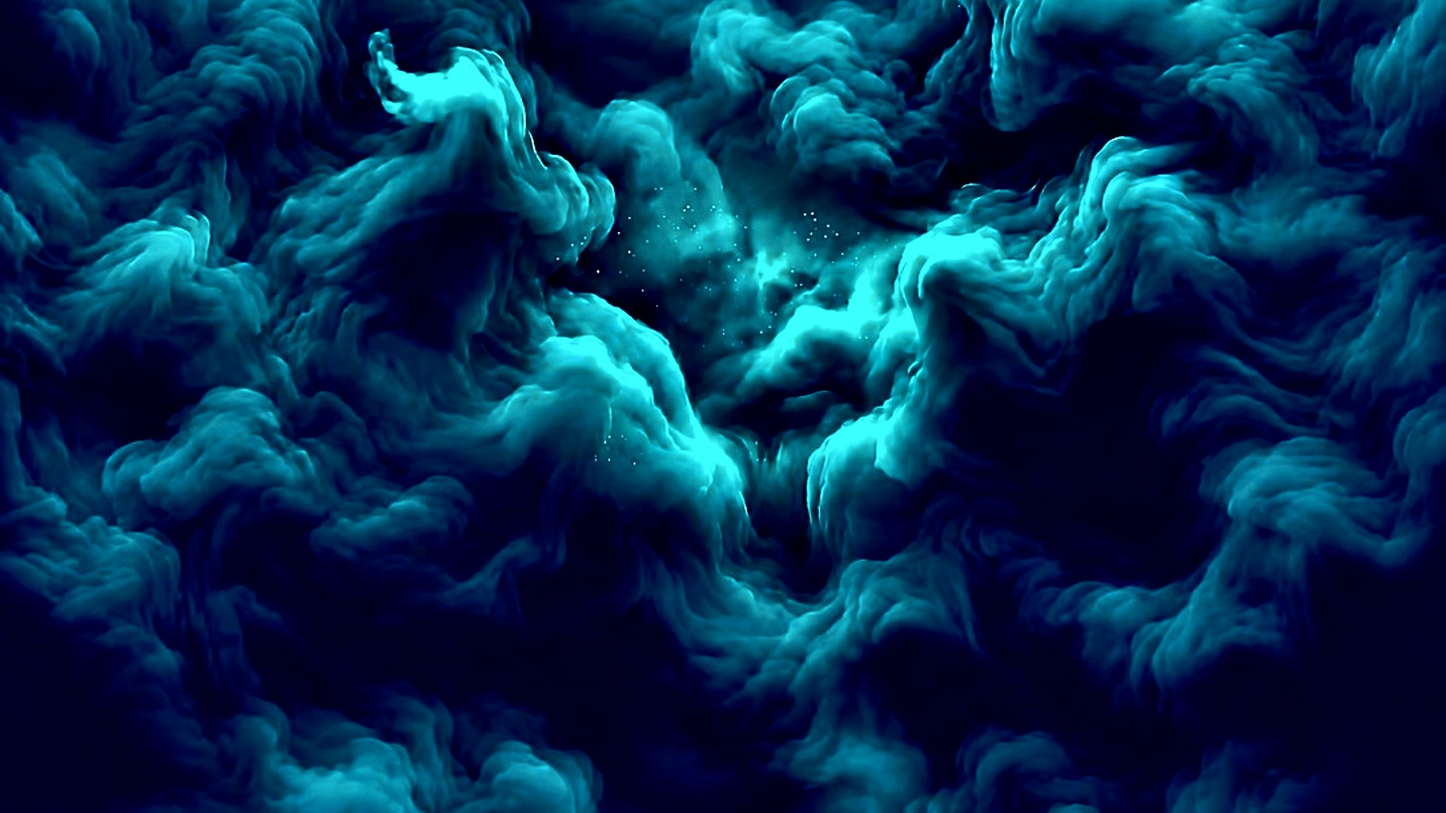
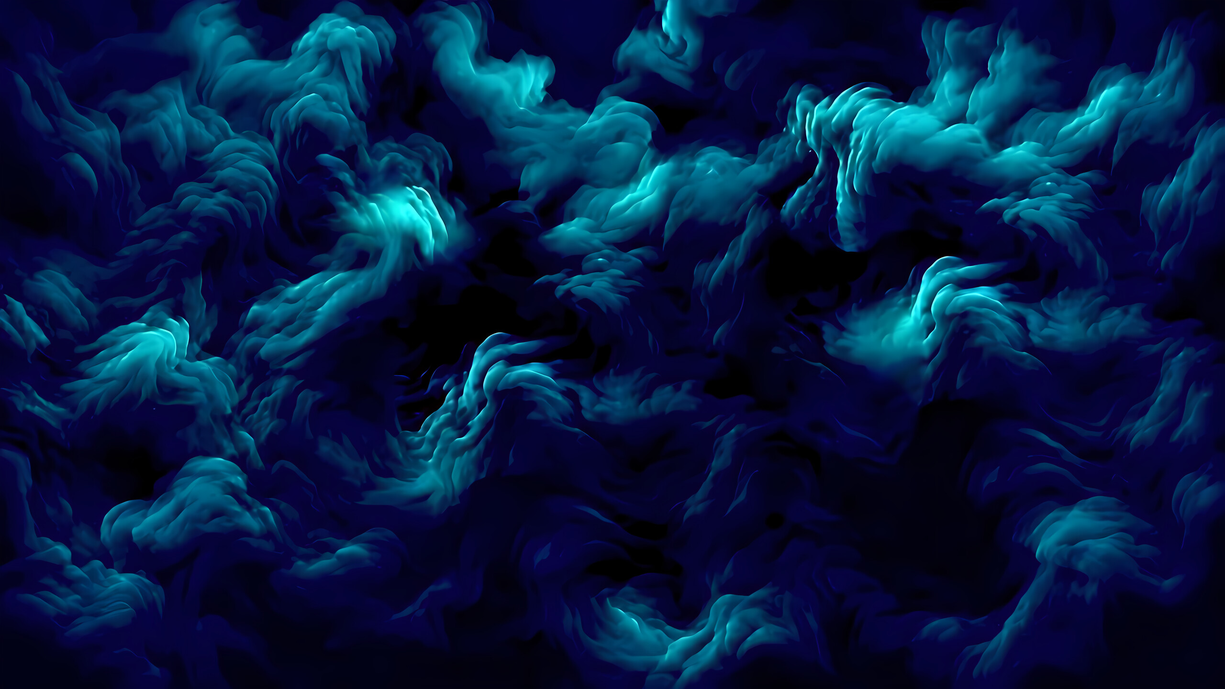
Update background artwork and adjust site colors to match
Replaces the landing page background image with a higher-resolution version and updates CSS to match the new artwork's color palette, ensuring visual consistency across the site.

Replit-Commit-Author: Agent
Replit-Commit-Session-Id: c1303a7e-4185-4363-903e-8b8e6f747106
Replit-Commit-Checkpoint-Type: full_checkpoint
Replit-Commit-Event-Id: 72a73a4c-71cc-43bb-b2eb-d19465b1af5a
Replit-Commit-Screenshot-Url: https://storage.googleapis.com/screenshot-production-us-central1/d3876158-494b-4e7b-a77f-48830782ce72/c1303a7e-4185-4363-903e-8b8e6f747106/mXom65L
Replit-Helium-Checkpoint-Created: true

diff --git a/artifacts/neuronotes/src/index.css b/artifacts/neuronotes/src/index.css
@@ -515,7 +515,7 @@
        propagation, so body's background paints in normal flow ON TOP of the
        fixed ::before and wipes every page backdrop. */
 body {
-  background-color: #05252d;
+  background-color: #030d24;
 }
 
 /* ============================================================
@@ -563,7 +563,7 @@ body {
      default (scroll) paints the image within this fixed box — visually
      identical, no seam. */
   background-attachment: scroll;
-  background-color: #05252d;
+  background-color: #030d24;
   pointer-events: none;
 }
 

diff --git a/.agents/memory/psychpro-smoke-bg-resolution.md b/.agents/memory/psychpro-smoke-bg-resolution.md
@@ -21,6 +21,13 @@ image was upscaled in-repl with Real-ESRGAN (spandrel + `RealESRGAN_x4plus_anime
 the 6-block model — general x4plus is too slow on CPU), then Lanczos-downscaled to 2560px
 wide, saved JPEG q90 (~1MB) over the same filename (re-skins landing+app+dashboards+EPPP).
 
+**July 8, 2026 update:** owner supplied a NEW backdrop artwork (deep navy-blue smoke,
+also low-res at 1672×941). Same recipe reused successfully: Real-ESRGAN anime-6B 4x
+(tiled, resumable), Lanczos to 2560 wide, JPEG q90 over the same shared filename
+(psychpro-smoke-bg-hq.jpeg). The letterbox base color AND the body dark floor were
+both aligned to the new artwork's darkest tone (#030d24) — keep those two in sync
+with whatever artwork ships, or first-paint/letterbox seams appear.
+
 **Sandbox constraints that shaped the run (also apply to any CPU ML task here):**
 - bash calls hard-cap at 120s; a full 4× pass on 1.57MP takes ~200s → must be resumable.
 - Backgrounded/nohup processes do NOT survive between bash tool calls (get reaped).
